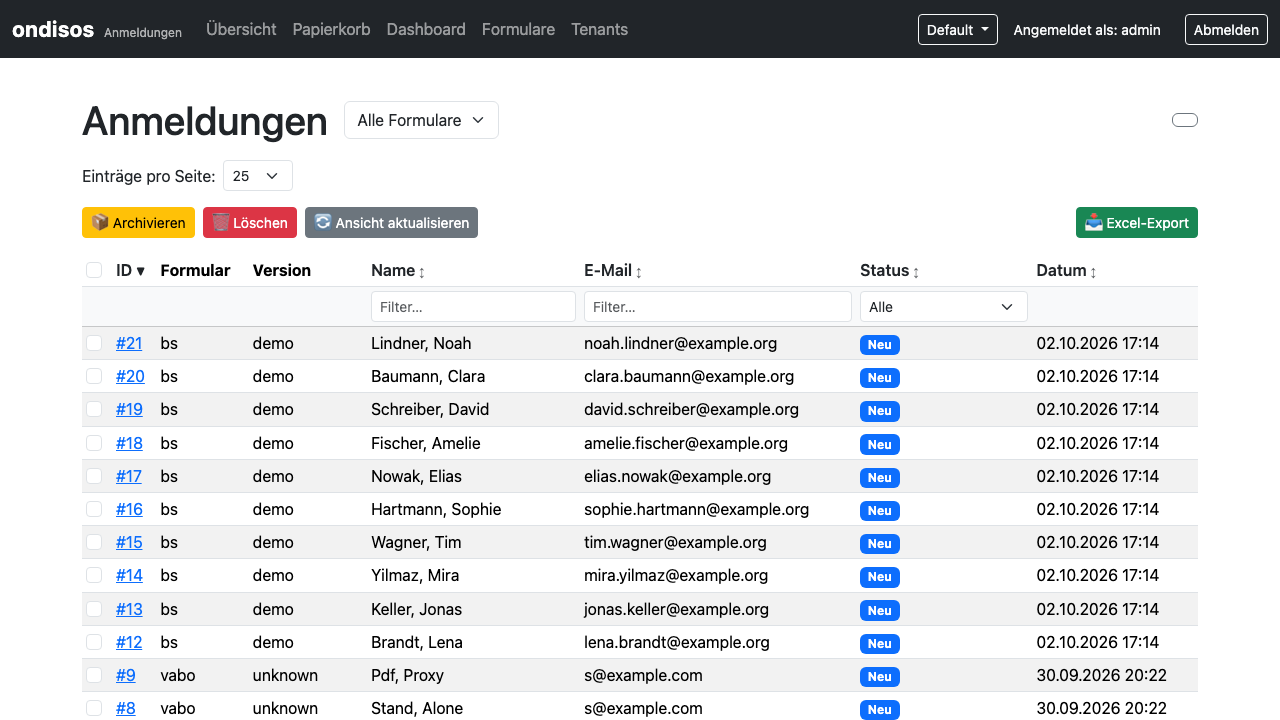
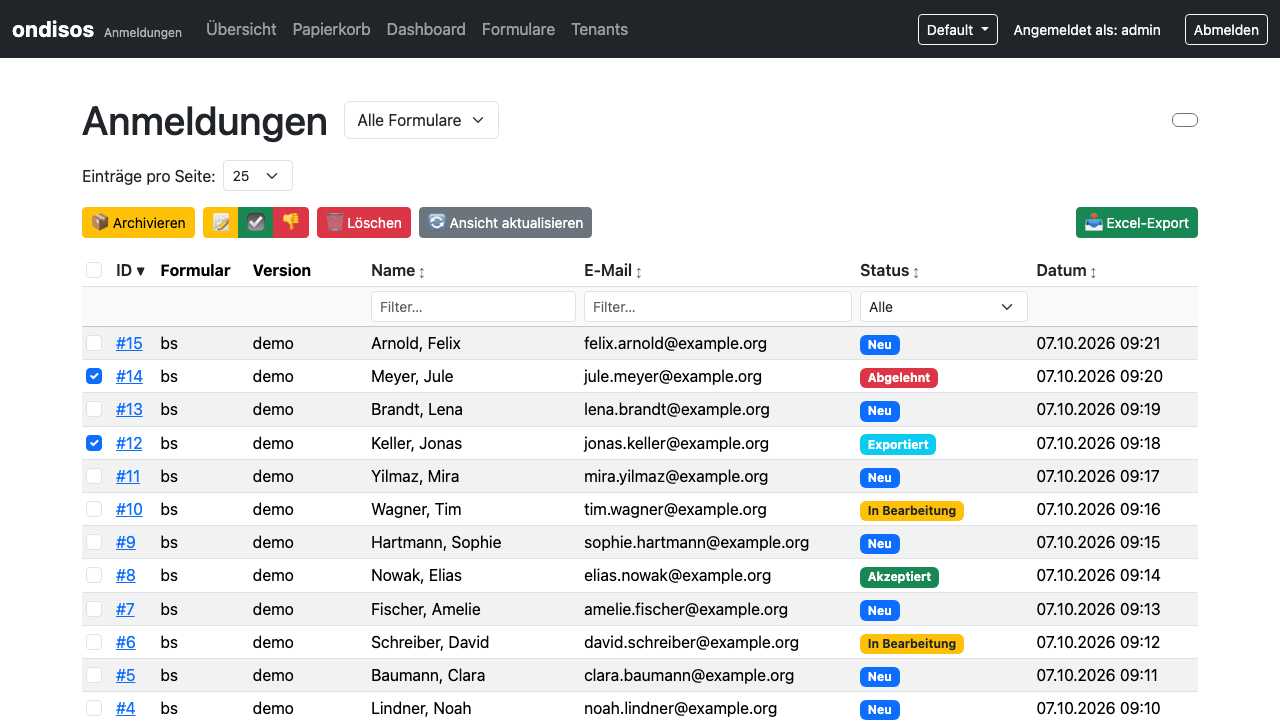
docs: Sammel-Statusbuttons in Handreichung, Architektur und Tests; neuer Übersichts-Screenshot

diff --git a/docs/sekretariat/README.md b/docs/sekretariat/README.md
@@ -30,6 +30,7 @@ Die Seite **Anmeldungen** zeigt alle eingegangenen Anmeldungen, die neuesten obe
   (z. B. *Neu*). In den Feldern unter **Name** und **E-Mail** können Sie nach Namen suchen.
 - **Sortieren:** Klick auf eine Spaltenüberschrift mit Pfeil (Name, E-Mail, Status, Datum).
 - **Einträge pro Seite:** 10, 25, 50 oder 100.
+- **Mehrere Einträge auswählen:** Kästchen vor den Nummern ankreuzen (das Kästchen in der Kopfzeile wählt alle angezeigten aus). Mit den Schaltflächen oberhalb der Tabelle wirken Sie dann auf alle ausgewählten Anmeldungen gleichzeitig; sie stehen unter [Bearbeitungsstand pflegen](#6-bearbeitungsstand-pflegen) und [Aufräumen](#7-aufräumen-archivieren-löschen-papierkorb).
 - Das **Dashboard** (Menü oben) zählt die Anmeldungen je Status und bietet unter **Schnellzugriff** direkt „Neue Anmeldungen".
 
 ## 3. Eine Anmeldung ansehen
@@ -74,7 +75,7 @@ Die Schritte dafür stehen in **[ASV.md](ASV.md)**.
 
 ## 6. Bearbeitungsstand pflegen
 
-Den Status ändern Sie in der Detailansicht (📝 ☑ 👎) oder für **mehrere Anmeldungen auf einmal** in der Liste: Kästchen vor den Nummern ankreuzen (das Kästchen in der Kopfzeile wählt alle angezeigten aus) und oben auf 📝 *In Bearbeitung*, ☑ *Akzeptiert* oder 👎 *Abgelehnt* klicken. Das System fragt vor dem Ändern nach und meldet danach, wie viele Einträge geändert wurden. So behalten Sie und Ihre Kolleginnen und Kollegen den Überblick:
+Den Status ändern Sie in der Detailansicht (📝 ☑ 👎) oder für **mehrere Anmeldungen auf einmal** in der Liste: Kästchen vor den Nummern ankreuzen (das Kästchen in der Kopfzeile wählt alle angezeigten aus) und oben auf 📝 *In Bearbeitung*, ☑ *Akzeptiert* oder 👎 *Abgelehnt* klicken. Das System fragt vor dem Ändern nach und meldet danach, wie viele Einträge geändert wurden. Die Buttons stehen zwischen **Archivieren** und **Löschen**; der Mauszeiger darüber zeigt den Namen. So behalten Sie und Ihre Kolleginnen und Kollegen den Überblick:
 
 | Status | Bedeutung |
 |---|---|
@@ -86,7 +87,7 @@ Den Status ändern Sie in der Detailansicht (📝 ☑ 👎) oder für **mehre
 
 ## 7. Aufräumen: Archivieren, Löschen, Papierkorb
 
-In der Liste markieren Sie Einträge und nutzen die Schaltflächen darüber:
+In der Liste markieren Sie Einträge und nutzen die Schaltflächen darüber. Von links nach rechts: **Archivieren**, die drei Statusbuttons (📝 ☑ 👎, siehe oben), **Löschen** und **Ansicht aktualisieren**.
 
 - **📦 Archivieren** – für erledigte Anmeldungen. **Wichtig:** Archivierte Anmeldungen werden nach einer festen Frist
   (Standard **90 Tage** nach der letzten Änderung, einstellbar durch den Betreiber) **endgültig und samt hochgeladener Dateien gelöscht**.
@@ -96,7 +97,7 @@ In der Liste markieren Sie Einträge und nutzen die Schaltflächen darüber:
   oder mit **⚠ Endgültig löschen** unwiderruflich entfernen.
 - **🔄 Ansicht aktualisieren** lädt die Liste neu, z. B. wenn inzwischen neue Anmeldungen eingegangen sind.
 
-Vor jedem Archivieren und Löschen fragt das System noch einmal nach.
+Vor jedem Archivieren, Löschen und Statuswechsel mehrerer Einträge fragt das System noch einmal nach.
 
 ## Hilfe
 

diff --git a/docs/entwicklung/TODO.md b/docs/entwicklung/TODO.md
@@ -35,7 +35,7 @@ Eine Coverage-Messung läuft in der Pipeline (Job `coverage`); lokal ist kein Co
 |---|---|---|
 | `PdfGeneratorService`, `PdfTemplateRenderer` | keine direkten Tests (Logo-Einbettung, Abschnitte, Feldfilter; mPDF-Erzeugung) | groß |
 | `SpreadsheetBuilder` | keine Tests (Zellformate, Datum `YYYY-MM-DD` → `dd.mm.yyyy`, Spaltenbreite, Zebra-Streifen) | mittel |
-| `AnmeldungController`, `BulkActionsController` | keine Tests (Integration gegen eine Test-Datenbank) | groß |
+| `AnmeldungController` | keine Tests (Integration gegen eine Test-Datenbank); `BulkActionsController` ist seit 3.1.1 mit Unit-Tests abgedeckt | groß |
 | `NominatimService`, `NullableHelpers` | keine Tests (externer Dienst gemockt bzw. kleine Hilfsfunktionen) | klein |
 | `AnmeldungRepository` | nur Mandanten-Isolierung und Nachbar-Abfragen getestet, CRUD, Soft-Delete und Filter fehlen als Integration-Tests | mittel |
 | Endpoint-Skripte (`submit.php`, `upload.php`, `form-config.php`, `forms.php`, `pdf/download.php`) | keine Unit-Tests; ihre Logik liegt in getesteten Services, strukturelle Tests prüfen Reihenfolge und Abhängigkeiten | mittel |

diff --git a/docs/entwicklung/architektur.md b/docs/entwicklung/architektur.md
@@ -187,7 +187,7 @@ Ein nicht initialisierter Kontext wirft eine Exception (kein stilles Durchfallen
 4. Admin kann:
    - Einzeln ansehen (detail.php) inkl. PDF-Download und Datei-Download
    - Excel exportieren (excel_export.php)
-   - Bulk-Actions (archivieren/löschen)
+   - Bulk-Actions (archivieren, löschen, Status setzen: in Bearbeitung / akzeptiert / abgelehnt)
    - Papierkorb verwalten (trash.php)
 ```
 
@@ -299,7 +299,7 @@ CREATE TABLE anmeldungen (
 **Backend Admin:**
 - Übersicht mit Pagination & Filterung
 - Status-System mit Auto-Status-Update
-- Bulk-Actions (Archivieren, Löschen)
+- Bulk-Actions (Archivieren, Löschen, Status setzen: In Bearbeitung, Akzeptiert, Abgelehnt)
 - Soft-Delete mit Papierkorb
 - Wiederherstellen aus Papierkorb
 - Excel-Export mit:

diff --git a/backend/UNITTESTS.md b/backend/UNITTESTS.md
@@ -68,7 +68,6 @@ ohne Datenbank.
 | `PdfGeneratorService` | mPDF-Abhängigkeit |
 | `PdfTemplateRenderer` | mPDF-Abhängigkeit |
 | `AnmeldungController` | `$_GET` Kopplung |
-| `BulkActionsController` | `$_SERVER`/`$_POST` Kopplung |
 | `DownloadController` | `exit` + `readfile()` nicht testbar |
 | Endpoint-Skripte (`public/api/*.php`, `pdf/download.php`) | Scripts mit `exit`/Superglobals; bisher nur live geprüft |
 | JavaScript (`survey-handler-*.js`), WordPress-Plugin | kein JS-/WP-Test-Setup |

diff --git a/docs/entwicklung/tests.md b/docs/entwicklung/tests.md
@@ -158,7 +158,7 @@ http://intranet.example.com/backend/
 
 # 2. Einträge in der Liste auswählen und Excel-Export testen (Status sollte → "exportiert")
 # 3. Detail ansehen
-# 4. Bulk-Action: Archivieren
+# 4. Bulk-Action: Archivieren und Status setzen (📝 ☑ 👎) für mehrere ausgewählte Einträge
 # 5. Papierkorb prüfen
 ```
 
